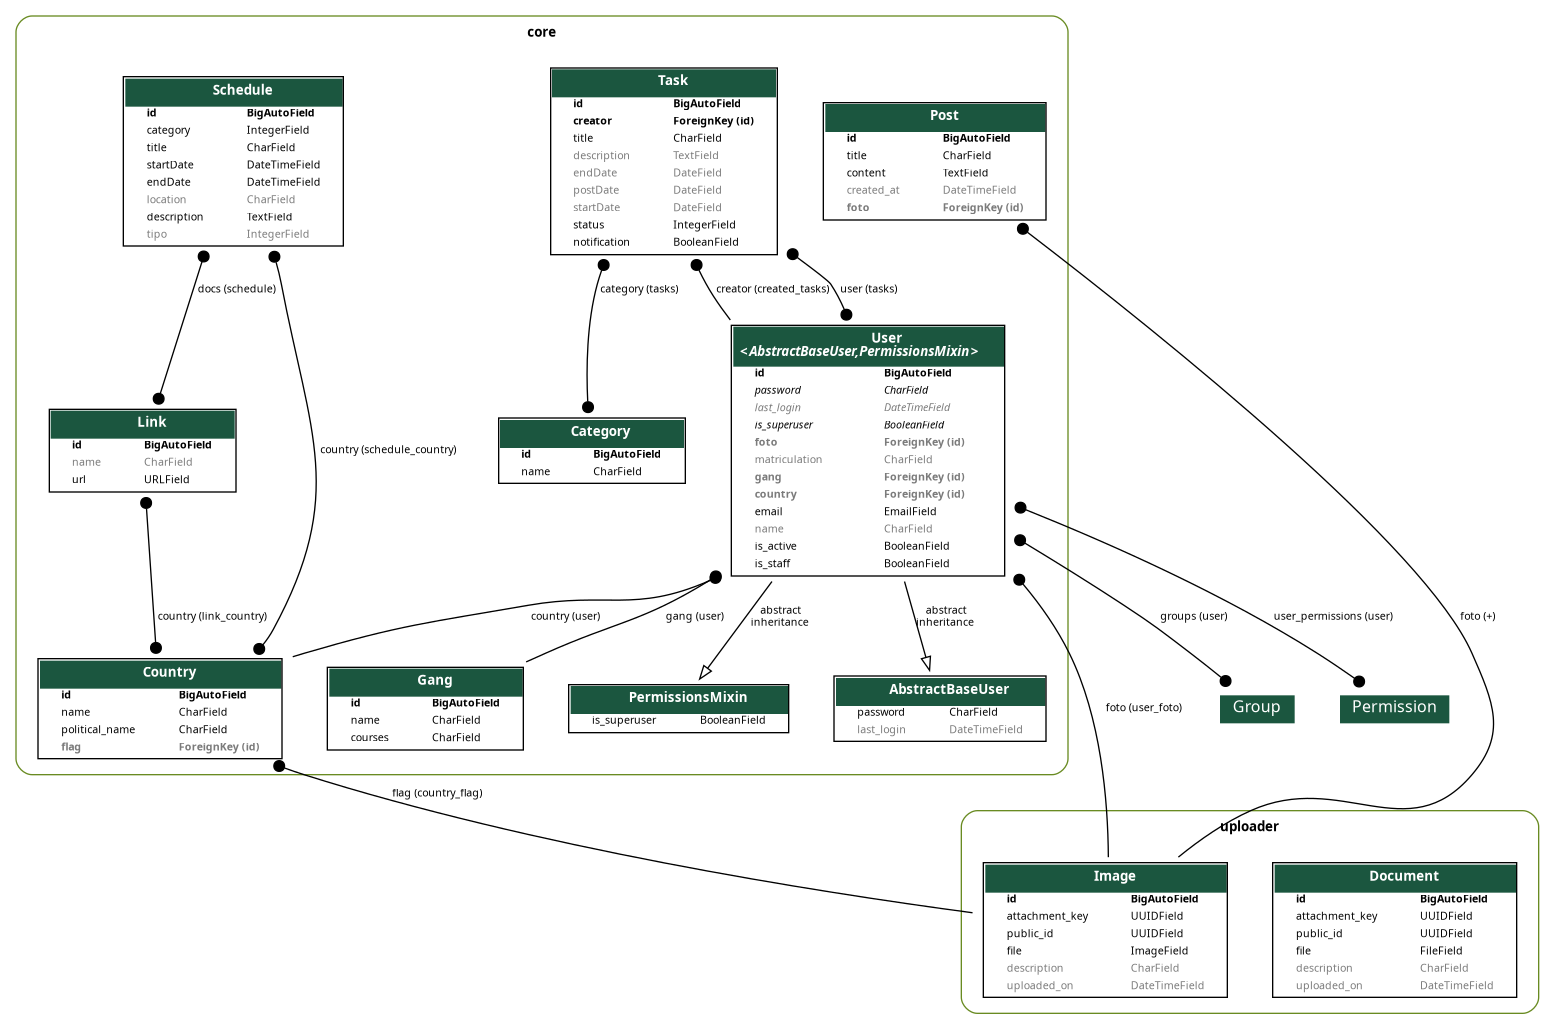
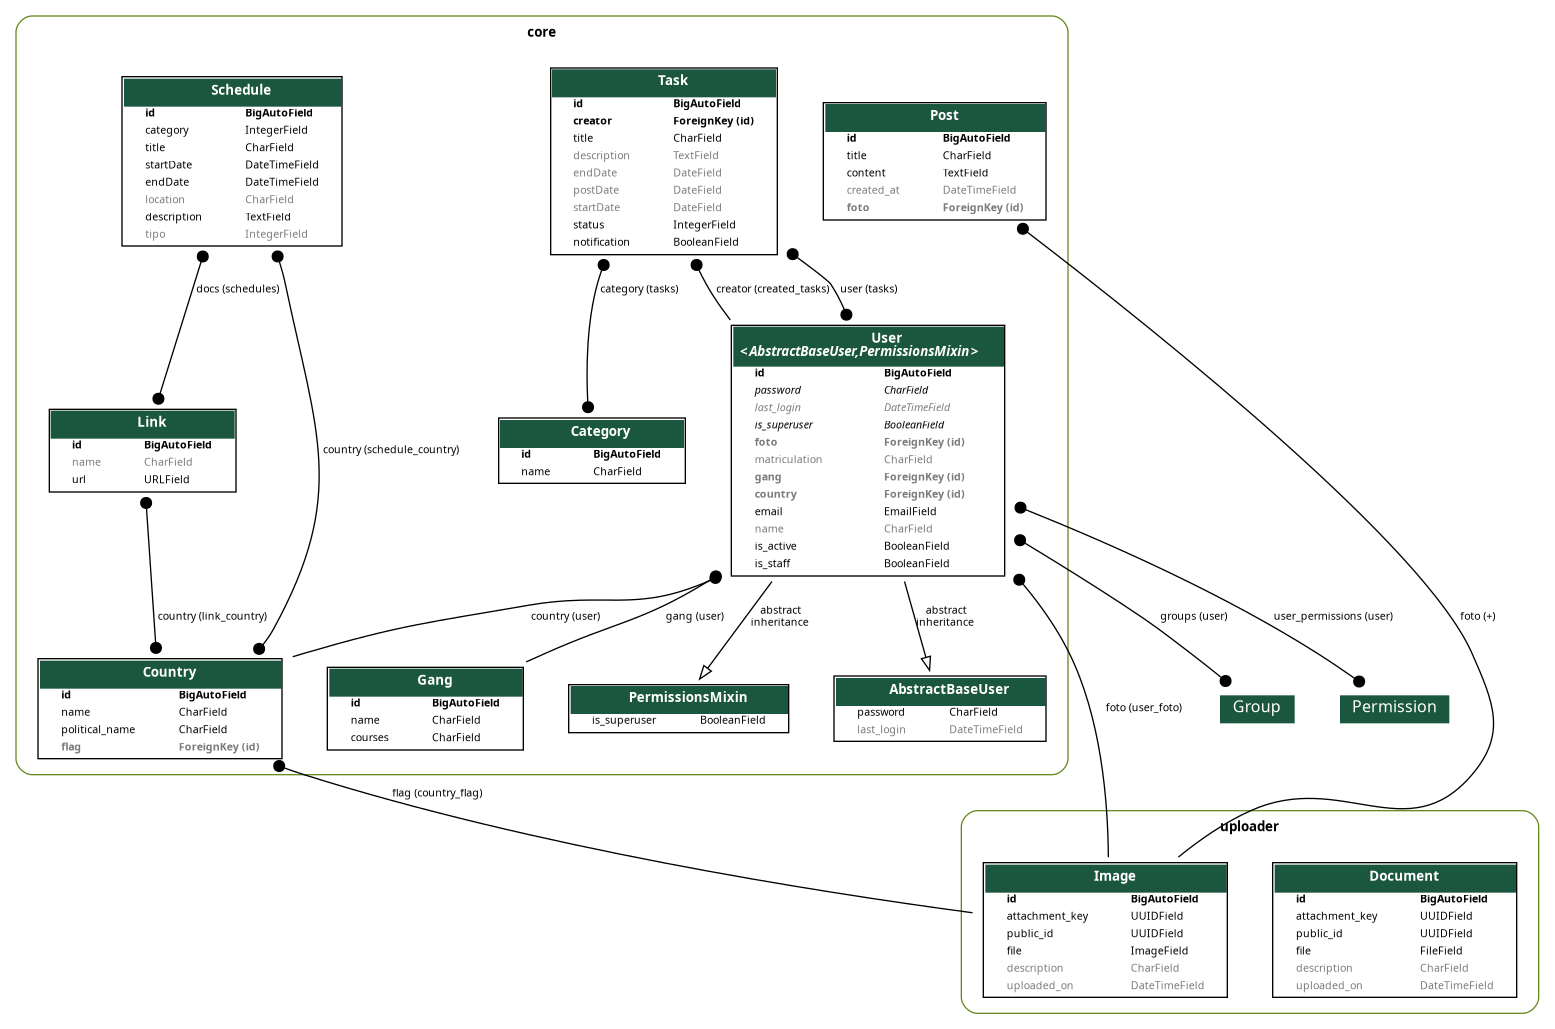
fix

Changed region(s): [[0.1235, 0.0622, 0.2161, 0.311], [0.1852, 0.4354, 0.2778, 0.4665], [0.0926, 0.1244, 0.1235, 0.2177]]

diff --git a/core/migrations/0025_alter_schedule_docs.py b/core/migrations/0025_alter_schedule_docs.py
@@ -1,0 +1,18 @@
+# Generated by Django 5.2.12 on 2026-09-25 17:02
+
+from django.db import migrations, models
+
+
+class Migration(migrations.Migration):
+
+    dependencies = [
+        ('core', '0024_alter_schedule_docs'),
+    ]
+
+    operations = [
+        migrations.AlterField(
+            model_name='schedule',
+            name='docs',
+            field=models.ManyToManyField(blank=True, related_name='schedules', to='core.link'),
+        ),
+    ]

diff --git a/core/models/schedule.py b/core/models/schedule.py
@@ -36,7 +36,7 @@ class Schedule(models.Model):
 
     docs = models.ManyToManyField(
         Link,
-        related_name='schedule',
+        related_name='schedules',
         blank=True,
     )
 
